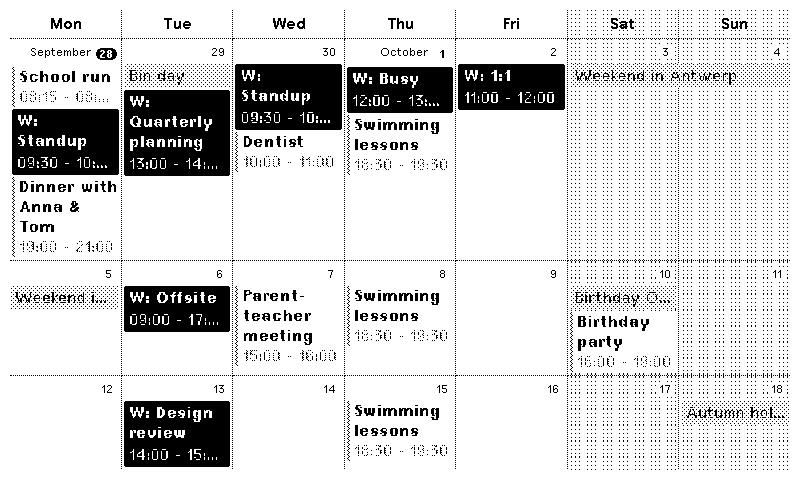
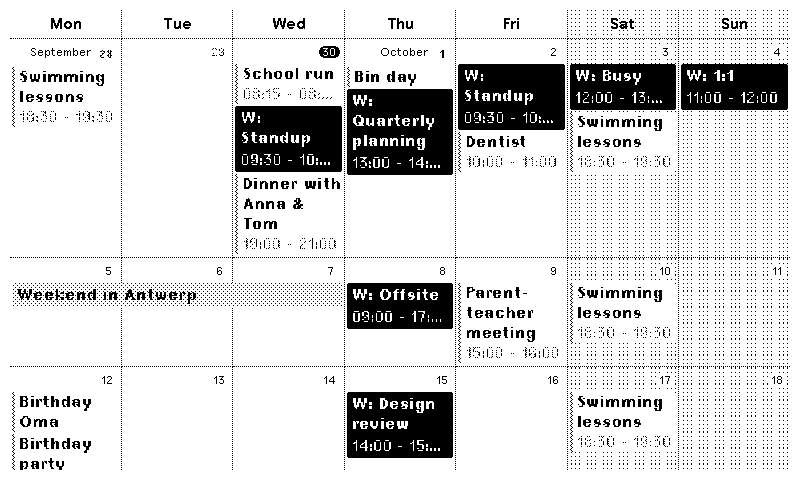
Update the README screenshots and add a script that regenerates them
The screenshots in docs/ still showed all-day events as grey bands.
preview/docs-images.sh renders them from the sample calendars, and
CLAUDE.md now says to run it after visual changes.

Claude-Session: https://claude.ai/code/session_01GLCvJtVt7Fcf6tkdwLC6Wk

diff --git a/CLAUDE.md b/CLAUDE.md
@@ -26,6 +26,7 @@ plugin; see README.md for setup and UPSTREAM.md for what differs from upstream.
   `preview/php/`, and `FRAMEWORK_DIR` set up as in `.github/workflows/render.yml`.
   Screenshots land in `preview/out/ci/` — look at them after visual changes.
 - `node preview/render.mjs --device x|og|og2 --set key=value ...` for one-off renders.
+- `sh preview/docs-images.sh` regenerates the README screenshots in `docs/`.
 - `node e2e/run.mjs` — end-to-end: imports `dist/ha-calendar.zip` into a running app
   container (`app`, started as in `app.yml` with `--add-host
   homeassistant:host-gateway`), polls the fake HA in `e2e/fake-ha.mjs`, fetches the
@@ -111,6 +112,8 @@ dates with `getUTC*`.
 - Keep upstream's behaviour and comments where the code is forked (see UPSTREAM.md) and
   update UPSTREAM.md when diverging.
 - Sizes in CSS scale with `--cal-u` (`--ui-scale`); colours use framework palette vars.
+- After a change that alters how the calendar looks, regenerate the README screenshots
+  in `docs/` with `sh preview/docs-images.sh` and commit them in the same PR.
 - After changing `plugin/src/`, rebuild with `scripts/build-zip.sh`; re-importing the
   ZIP updates the recipe in LaraPaper in place (same `id`).
 - Bumping LaraPaper: `BUILD_FROM` in `larapaper/Dockerfile` + `version` in `config.yaml`. Bumping the
